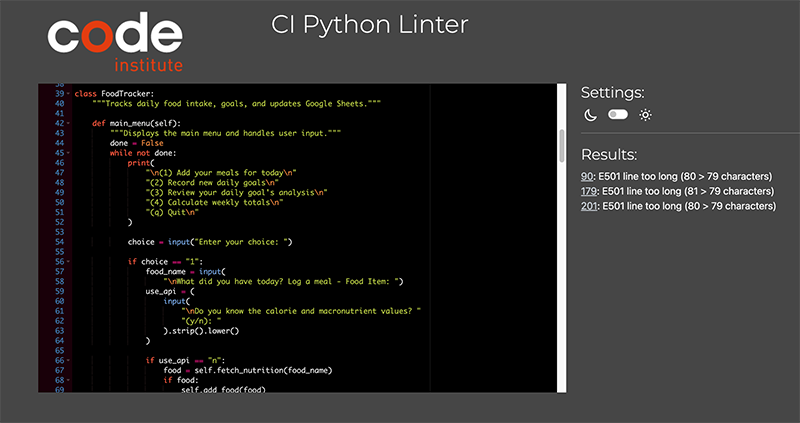
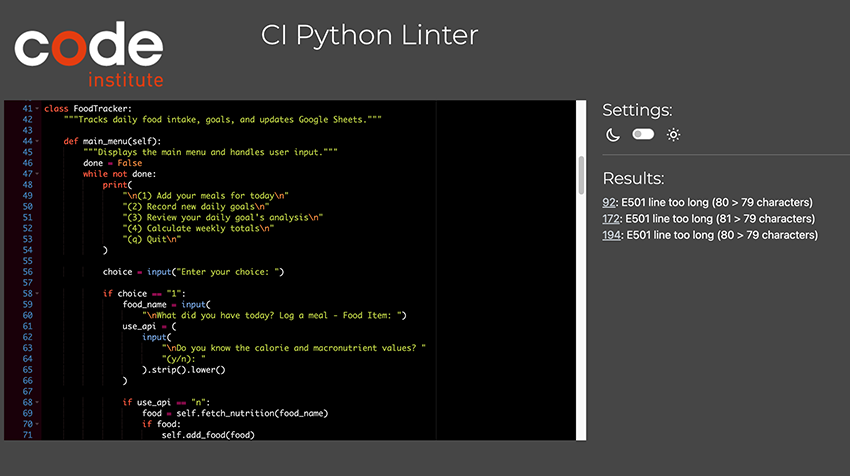
add content to README.md

Changed region(s): [[0.0, 0.0307, 0.9688, 0.9527], [0.125, 0.5532, 0.5312, 0.7991], [0.3125, 0.0307, 0.5938, 0.0922]]

diff --git a/README.md b/README.md
@@ -132,7 +132,12 @@ At the start of coding the app, I ran into some bugs. The following bugs I encou
 - Add conditional check for invalid user input, or when user inputs a decimal point or letters for entering Calories and macronutrients.
   Previously, the application did not handle invalid inputs correctly when users entered calorie and macronutrient values. The application would reset 
   to the main menu silently if users entered non-integer values, such as decimals, letters, or special characters.
- 
+
+- Fixed bug to ensure that 0 is accepted as valid input from the user. In the get_nutrient_input function, it checks that the input is greater 
+  than or equal to 0. Accepts 0 and positive integers as valid input.
+
+  ![Positive integers and zeros](https://github.com/IsaHu-dev/Calorie-Mind/blob/main/media/roundnumber.png)
+
 All bugs are presently fixed.
 
 ## Code Style and Readability
@@ -141,7 +146,7 @@ All bugs are presently fixed.
 
 ## Validator Testing
 
-- Passed the CI Python Linter, with the exception of Lines 90,179 and 201 - The CI linter flags certain lines as exceeding the maximum 79 character limit. However, the current line length for the abovementioned lines are necessary to maintain functionality for the code’s operations, and breaking these lines could impact on it's function and output an error in the console.
+- Passed the CI Python Linter, with the exception of Lines 92,172 and 194 - The CI linter flags certain lines as exceeding the maximum 79 character limit. However, the current line length for the abovementioned lines are necessary to maintain functionality for the code’s operations, and breaking these lines could impact on it's function and output an error in the console.
 
  ![CI Python Linter](https://github.com/IsaHu-dev/Calorie-Mind/blob/main/media/cilinter.png)
 
